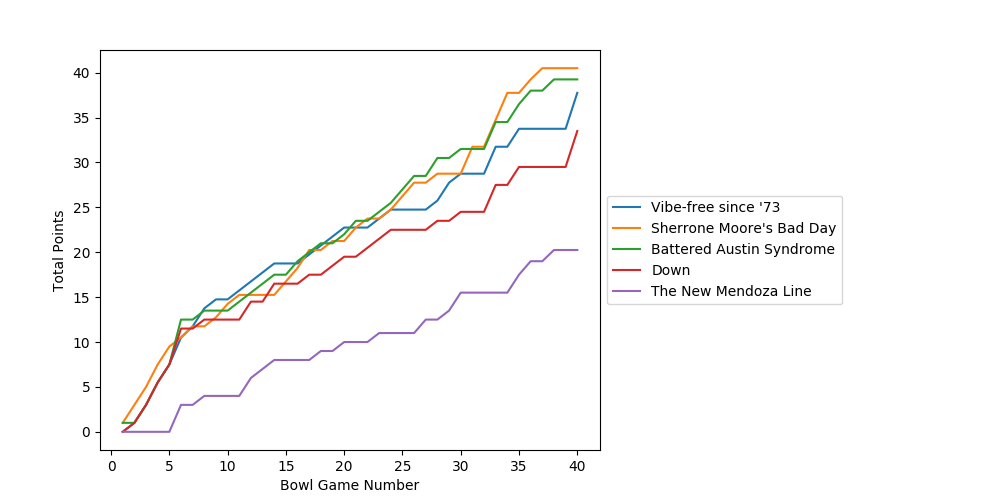
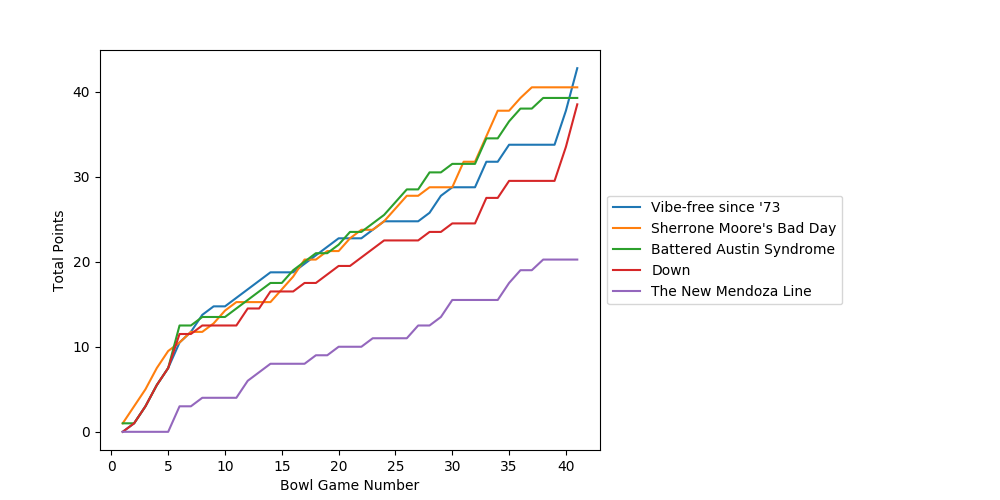
NC update

diff --git a/bowl_pool/2025-2026/rankings.html b/bowl_pool/2025-2026/rankings.html
@@ -365,20 +365,20 @@ ul.auto-toc {
 
 
 <div class="line-block">
-<div class="line"><em>Last updated:  2026-01-11 17:57:14</em></div>
-<div class="line"><em>Last bowl scored:  CFP Semifinal (Peach) (Oregon vs. Indiana)</em></div>
+<div class="line"><em>Last updated:  2026-01-26 15:30:21</em></div>
+<div class="line"><em>Last bowl scored:  NATIONAL CHAMPIONSHIP (Indiana vs. Miami)</em></div>
 </div>
 <div class="line-block">
-<div class="line">1. <strong>Sherrone Moore's Bad Day 40.5</strong></div>
-<div class="line">2. <strong>Battered Austin Syndrome 39.25</strong></div>
-<div class="line">3. <strong>Vibe-free since '73 37.75</strong></div>
-<div class="line">4. Arandas legacy Year 36.75</div>
-<div class="line">4. Eclipse 36.75</div>
-<div class="line">6. Upside 35.25</div>
-<div class="line">7. Not So New Guy 34.5</div>
-<div class="line">8. Barkside Ballers 34.0</div>
-<div class="line">8. #MamaBear 34.0</div>
-<div class="line">10. <strong>Down 33.5</strong></div>
+<div class="line">1. <strong>Vibe-free since '73 42.75</strong></div>
+<div class="line">2. Arandas legacy Year 41.75</div>
+<div class="line">3. <strong>Sherrone Moore's Bad Day 40.5</strong></div>
+<div class="line">4. <strong>Battered Austin Syndrome 39.25</strong></div>
+<div class="line">5. #MamaBear 39.0</div>
+<div class="line">6. <strong>Down 38.5</strong></div>
+<div class="line">7. Eclipse 36.75</div>
+<div class="line">8. Upside 35.25</div>
+<div class="line">9. Not So New Guy 34.5</div>
+<div class="line">10. Barkside Ballers 34.0</div>
 <div class="line">11. BlueOrRed 33.0</div>
 <div class="line">12. Wisconsin shoud've been here 32.5</div>
 <div class="line">13. First Round SIL 32.25</div>

diff --git a/bowl_pool/2025-2026/results.html b/bowl_pool/2025-2026/results.html
@@ -1755,6 +1755,39 @@ ul.auto-toc {
 <td>0.0</td>
 <td>0.0</td>
 </tr>
+<tr><td>41</td>
+<td>NATIONAL CHAMPIONSHIP</td>
+<td>Indiana</td>
+<td>Miami</td>
+<td>0.0</td>
+<td>0.0</td>
+<td>5.0</td>
+<td>0.0</td>
+<td>0.0</td>
+<td>0.0</td>
+<td>0.0</td>
+<td>0.0</td>
+<td>0.0</td>
+<td>0.0</td>
+<td>0.0</td>
+<td>5.0</td>
+<td>0.0</td>
+<td>0.0</td>
+<td>0.0</td>
+<td>0.0</td>
+<td>0.0</td>
+<td>0.0</td>
+<td>5.0</td>
+<td>0.0</td>
+<td>0.0</td>
+<td>5.0</td>
+<td>0.0</td>
+<td>0.0</td>
+<td>0.0</td>
+<td>0.0</td>
+<td>0.0</td>
+<td>0.0</td>
+</tr>
 <tr><td>B1</td>
 <td>How many TD's will Marcel Reed run for?</td>
 <td>&nbsp;</td>
@@ -1860,7 +1893,7 @@ ul.auto-toc {
 <td>&nbsp;</td>
 <td>&nbsp;</td>
 <td><strong>34.0</strong></td>
-<td><strong>37.75</strong></td>
+<td><strong>42.75</strong></td>
 <td><strong>32.0</strong></td>
 <td><strong>27.25</strong></td>
 <td><strong>20.25</strong></td>
@@ -1869,17 +1902,17 @@ ul.auto-toc {
 <td><strong>28.75</strong></td>
 <td><strong>28.75</strong></td>
 <td><strong>39.25</strong></td>
-<td><strong>36.75</strong></td>
+<td><strong>41.75</strong></td>
 <td><strong>28.25</strong></td>
 <td><strong>28.75</strong></td>
 <td><strong>28.25</strong></td>
 <td><strong>32.5</strong></td>
 <td><strong>28.75</strong></td>
 <td><strong>25.25</strong></td>
-<td><strong>33.5</strong></td>
+<td><strong>38.5</strong></td>
 <td><strong>36.75</strong></td>
 <td><strong>32.25</strong></td>
-<td><strong>34.0</strong></td>
+<td><strong>39.0</strong></td>
 <td><strong>33.0</strong></td>
 <td><strong>30.5</strong></td>
 <td><strong>34.5</strong></td>

diff --git a/bowl_pool/2025-2026/index.html b/bowl_pool/2025-2026/index.html
@@ -366,8 +366,8 @@ ul.auto-toc {
 
 <p><strong>2025-2026 Bowl Pool</strong></p>
 <div class="line-block">
-<div class="line"><em>Last updated:  2026-01-11 17:57:15</em></div>
-<div class="line"><em>Last bowl scored:  CFP Semifinal (Peach) (Oregon vs. Indiana)</em></div>
+<div class="line"><em>Last updated:  2026-01-26 15:30:22</em></div>
+<div class="line"><em>Last bowl scored:  NATIONAL CHAMPIONSHIP (Indiana vs. Miami)</em></div>
 </div>
 <ul class="simple">
 <li><a class="reference external" href="rankings.html">Rankings</a> (<a class="reference external" href="rankings.csv">csv</a>)</li>

diff --git a/bowl_pool/2025-2026_CFP/index.html b/bowl_pool/2025-2026_CFP/index.html
@@ -366,7 +366,7 @@ ul.auto-toc {
 
 <p><strong>2025-2026_CFP Bowl Pool</strong></p>
 <div class="line-block">
-<div class="line"><em>Last updated:  2026-01-11 17:57:13</em></div>
+<div class="line"><em>Last updated:  2026-01-26 15:30:20</em></div>
 <div class="line"><em>Last bowl scored:  CFP Semifinal (Peach) (Oregon vs. Indiana)</em></div>
 </div>
 <ul class="simple">

diff --git a/bowl_pool/2025-2026_Non-CFP/index.html b/bowl_pool/2025-2026_Non-CFP/index.html
@@ -366,7 +366,7 @@ ul.auto-toc {
 
 <p><strong>2025-2026_Non-CFP Bowl Pool</strong></p>
 <div class="line-block">
-<div class="line"><em>Last updated:  2026-01-11 17:57:12</em></div>
+<div class="line"><em>Last updated:  2026-01-26 15:30:19</em></div>
 <div class="line"><em>Last bowl scored:  HOLIDAY BOWL (Arizona vs. SMU)</em></div>
 </div>
 <ul class="simple">

diff --git a/bowl_pool/2025-2026_CFP/rankings.html b/bowl_pool/2025-2026_CFP/rankings.html
@@ -365,7 +365,7 @@ ul.auto-toc {
 
 
 <div class="line-block">
-<div class="line"><em>Last updated:  2026-01-11 17:57:13</em></div>
+<div class="line"><em>Last updated:  2026-01-26 15:30:20</em></div>
 <div class="line"><em>Last bowl scored:  CFP Semifinal (Peach) (Oregon vs. Indiana)</em></div>
 </div>
 <div class="line-block">

diff --git a/bowl_pool/2025-2026_Non-CFP/rankings.html b/bowl_pool/2025-2026_Non-CFP/rankings.html
@@ -365,7 +365,7 @@ ul.auto-toc {
 
 
 <div class="line-block">
-<div class="line"><em>Last updated:  2026-01-11 17:57:11</em></div>
+<div class="line"><em>Last updated:  2026-01-26 15:30:18</em></div>
 <div class="line"><em>Last bowl scored:  HOLIDAY BOWL (Arizona vs. SMU)</em></div>
 </div>
 <div class="line-block">
